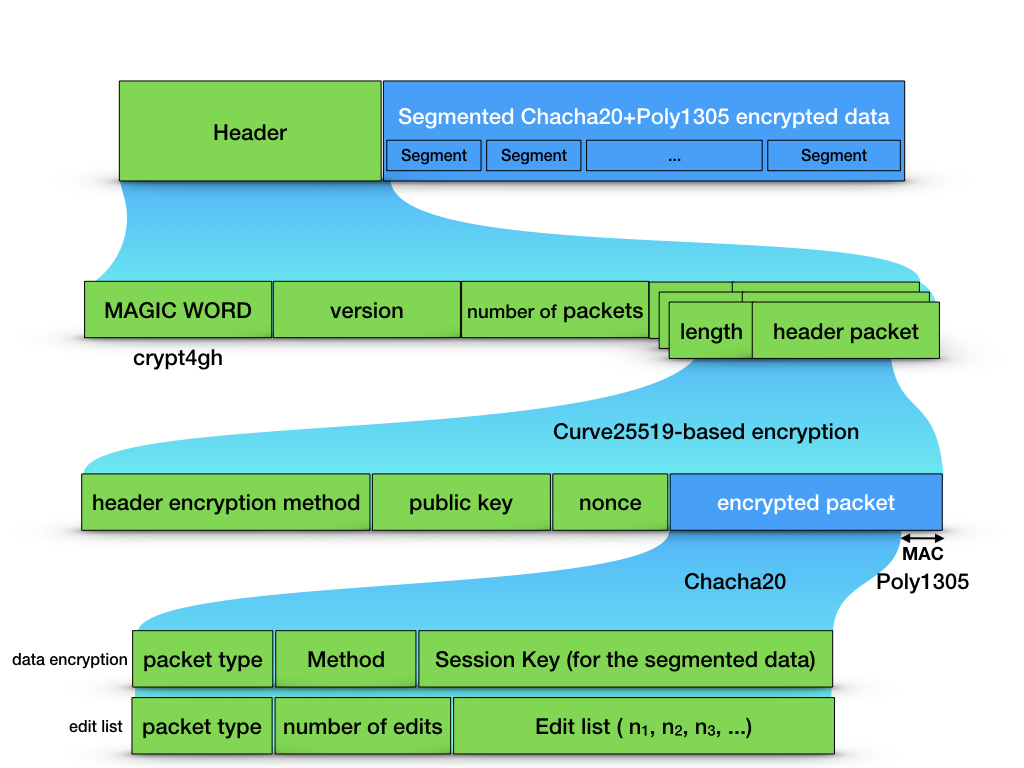
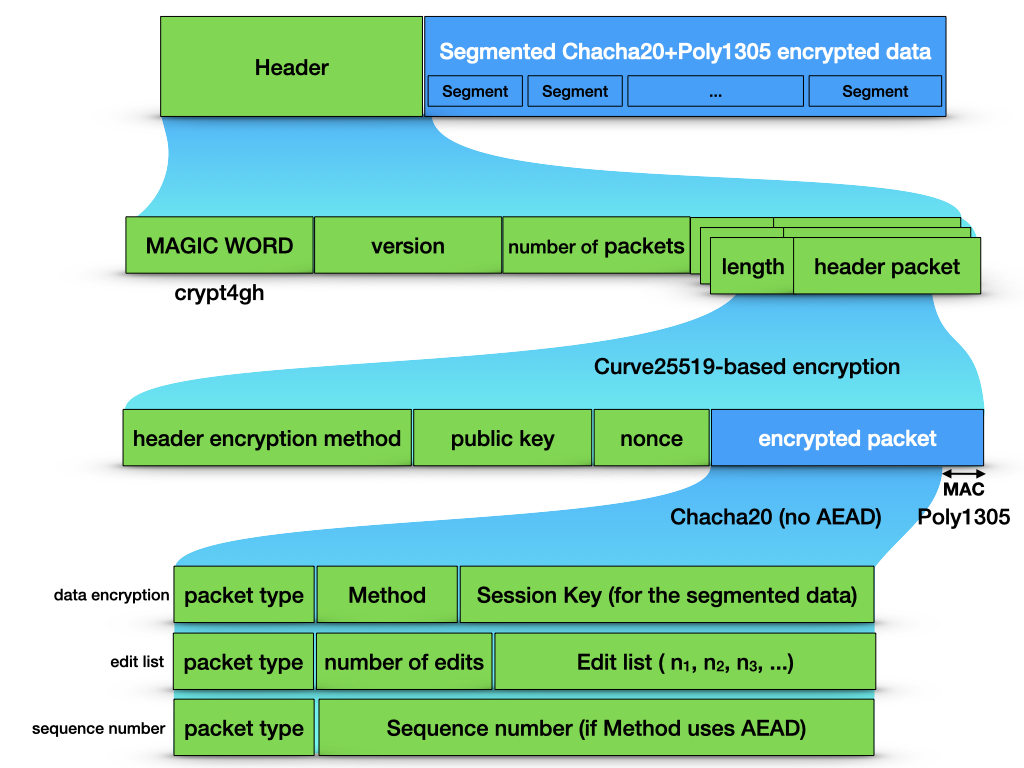
Updating the docs for v2

diff --git a/docs/conf.py b/docs/conf.py
@@ -129,9 +129,6 @@ html_sidebars = {
 
 today_fmt = '%B %d, %Y'
 
-def setup(app):
-    app.add_stylesheet('custom.css')
-
 # -- Other stuff ----------------------------------------------------------
 htmlhelp_basename = 'crypt4gh'
 latex_elements = {}

diff --git a/docs/setup.rst b/docs/setup.rst
@@ -42,14 +42,22 @@ which should output, something along those lines (yes, the testsuite might grow)
 
 .. code-block:: console
 
-   ✓ Bob sends a secret (random) 10MB file to Alice
-   ✓ Bob sends the testfile secretly to Alice
-   ✓ Bob encrypts the testfile for himself and reencrypts it for Alice
-   ✓ Bob sends only the Bs from the testfile secretly to Alice
-   ✓ Bob sends one A, all Bs, one C, from the testfile secretly to Alice
-   ✓ Bob rearranges the encrypted testfile to send one A, all Bs, one C, to Alice
-   ✓ Bob sends only the Bs from the testfile secretly to Alice
-   ✓ Bob sends one A, all Bs, one C, from the testfile secretly to Alice
-   ✓ Bob rearranges the encrypted testfile to send one A, all Bs, one C, to Alice
-   
-   10 tests, 0 failures
+    ✓ Bob sends a secret message to Alice, buried in some random data
+    ✓ Bob sends a secret (random) 10MB file to Alice
+    ✓ Bob sends the testfile secretly to Alice
+    ✓ Bob encrypts the testfile for himself and reencrypts it for Alice
+    ✓ Bob sends a secret (random) 10MB file to Alice, without his key
+    ✓ Bob sends a secret (random) 10MB file to Alice (no AEAD)
+    ✓ Bob sends the testfile secretly to Alice (no AEAD)
+    ✓ Bob encrypts the testfile for himself and reencrypts it for Alice (no AEAD)
+    ✓ Bob sends a secret (random) 10MB file to Alice, without his key (no AEAD)
+    ✓ Bob sends a secret (random) 10MB file to Alice, using his ssh-key
+    ✓ Bob sends a secret (random) 10MB file to Alice, using Alice's ssh-key
+    ✓ Bob sends a secret (random) 10MB file to Alice, both using their ssh-keys
+    ✓ Bob sends the testfile secretly to himself and Alice
+    ✓ Bob encrypts the testfile for himself and reencrypts it for himself and Alice
+    ✓ Bob sends only the Bs from the testfile secretly to Alice
+    ✓ Bob sends one A, all Bs, one C, from the testfile secretly to Alice
+    ✓ Bob rearranges the encrypted testfile to send one A, all Bs, one C, to Alice
+
+    17 tests, 0 failures

diff --git a/docs/usage.rst b/docs/usage.rst
@@ -5,6 +5,8 @@ Usage & Examples
 
 The usual ``-h`` flag shows you the different options that the tool accepts.
 
+.. _cli-usage:
+
 .. code-block:: console
 
     $ crypt4gh -h
@@ -12,10 +14,10 @@ The usual ``-h`` flag shows you the different options that the tool accepts.
     Utility for the cryptographic GA4GH standard, reading from stdin and outputting to stdout.
 
     Usage:
-	crypt4gh [-hv] [--log <file>] encrypt [--sk <path>] --recipient_pk <path> [--recipient_pk <path>]... [--range <start-end>]
+	crypt4gh [-hv] [--log <file>] encrypt [--sk <path>] --recipient_pk <path> [--recipient_pk <path>]... [--range <start-end>] [--no_aad]
 	crypt4gh [-hv] [--log <file>] decrypt [--sk <path>] [--sender_pk <path>] [--range <start-end>]
-	crypt4gh [-hv] [--log <file>] rearrange [--sk <path>] --range <start-end>
 	crypt4gh [-hv] [--log <file>] reencrypt [--sk <path>] --recipient_pk <path> [--recipient_pk <path>]... [--trim]
+	crypt4gh [-hv] [--log <file>] rearrange [--sk <path>] --range <start-end>
 
     Options:
 	-h, --help             Prints this help and exit
@@ -25,9 +27,12 @@ The usual ``-h`` flag shows you the different options that the tool accepts.
 	                       When encrypting, if neither the private key nor C4GH_SECRET_KEY are specified, we generate a new key 
 	--recipient_pk <path>  Recipient's Curve25519-based Public key
 	--sender_pk <path>     Peer's Curve25519-based Public key to verify provenance (aka, signature)
-	--range <start-end>    Byte-range either as  <start-end> or just <start> (Start included, End excluded)
 	-t, --trim             Keep only header packets that you can decrypt
+	-n, --no_aad           Disable AEAD (Authenticated Encryption with Associated Data)
+	--range <start-end>    Byte-range either as  <start-end> or just <start> (Start included, End excluded)
 
+    Notes:
+        The "rearrange" command only works without AEAD
 
     Environment variables:
 	C4GH_LOG         If defined, it will be used as the default logger

diff --git a/docs/encryption.rst b/docs/encryption.rst
@@ -25,3 +25,27 @@ The advantages of the format are, among others:
 * Re-encrypting the file for another user requires only to decrypt the header and encrypt it with the user's public key.
 * Header packets can be encrypted for multiple recipients.
 * Re-arranging the file to chunk a portion requires only to decrypt the header, re-encrypt with an edit list, and select the cipher segments surrounding the portion. The file itself is not decrypted and reencrypted.
+
+
+AEAD mode
+---------
+
+The procedure to use the AEAD mode is as follows: |br| We randomly
+pick a number, and create an incrementing sequence starting at that
+number (We limit the number to 4 bytes, so the sequence can eventually
+wrap around). |br| For each encrypted segment, in order, we attach the
+number we pop from the sequence. |br| In case the end of the file
+lands on a segment boundary, we also encrypt an empty segment, using
+the incrementing sequence, and add it as last encrypted segment.
+
+The AEAD mode ensures no segments can be lost or re-ordered.
+
+It is the default mode and the non-AEAD mode is kept for backwards compatibility using the ``-n`` switch (See :ref:`Usage & Examples <cli-usage>`).
+
+In the AEAD mode, the header contains at least 2 packets: A list of data encryption packets with method ``1`` and a sequence number packet with the initial sequence number from the above sequence.
+
+.. note:: In this mode, data encryption methods can't be mixed, and edit lists are not supported.
+
+.. |br| raw:: html
+
+   <br />
